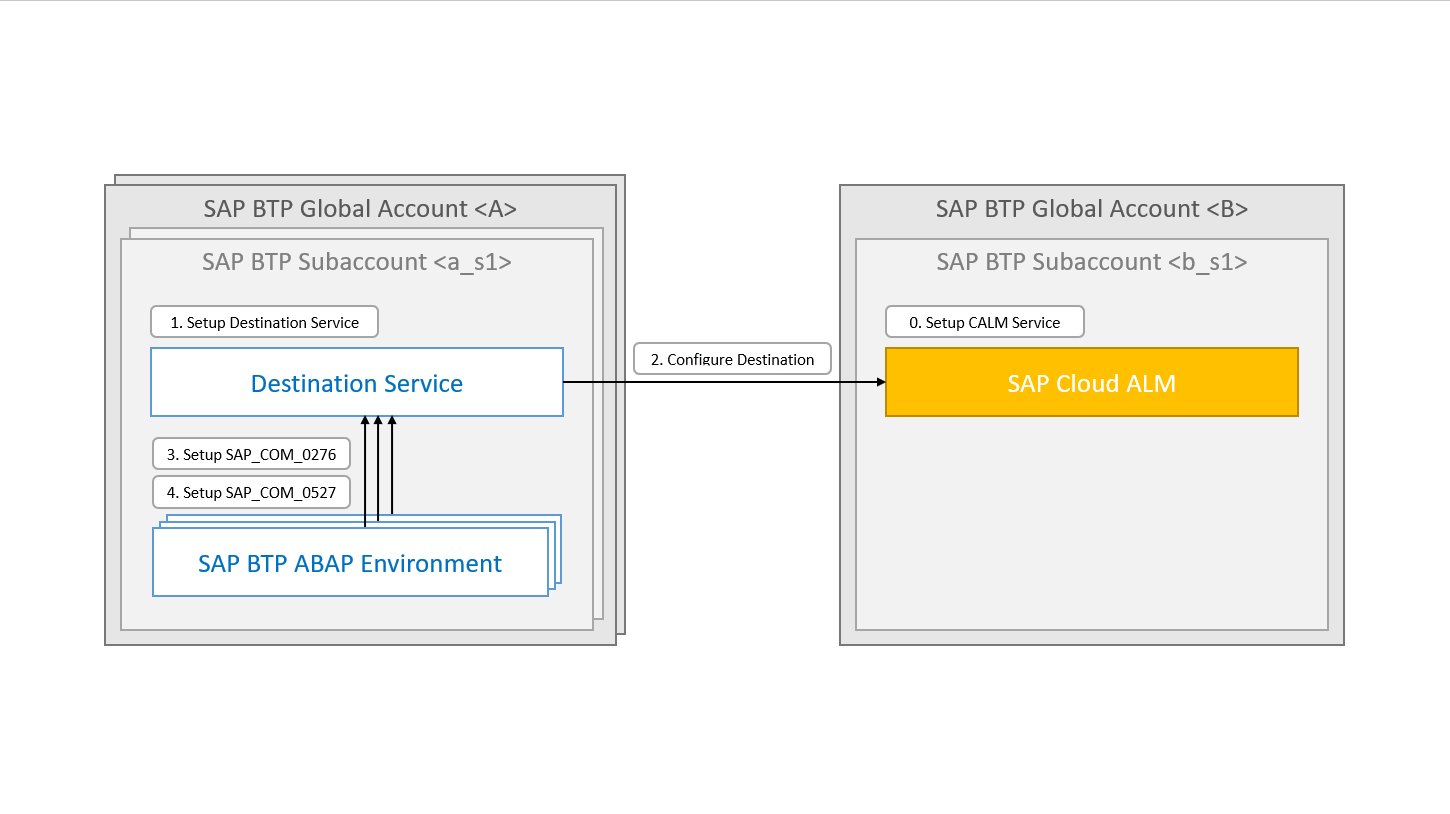
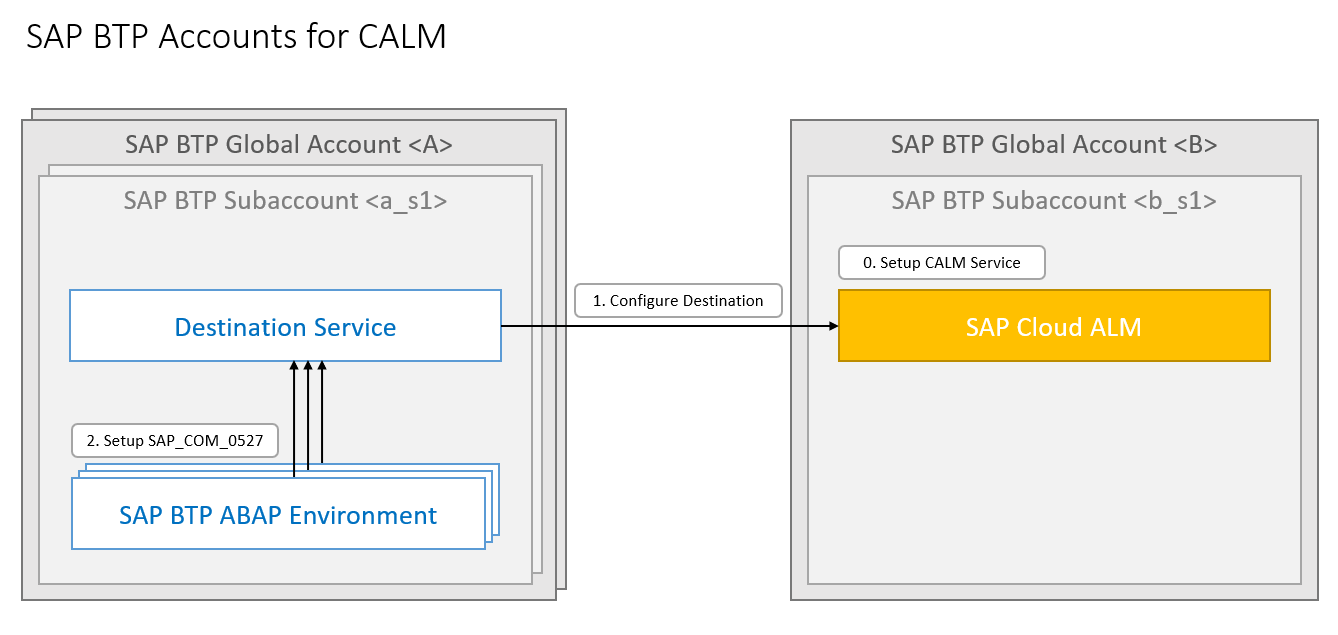
Fixed step numbering + in overview graphic

Changed region(s): [[0.0, 0.1496, 1.0, 0.9575], [0.0, 0.0299, 0.3371, 0.0898]]

diff --git a/tutorials/abap-environment-monitoring-calm-health-monitoring/abap-environment-monitoring-calm-health-monitoring.md b/tutorials/abap-environment-monitoring-calm-health-monitoring/abap-environment-monitoring-calm-health-monitoring.md
@@ -10,12 +10,13 @@ author_profile: https://github.com/julieplummer20
 ---
 
 # Monitor An SAP BTP ABAP Environment Service Using SAP Cloud ALM (CALM)
-<!-- description --> Configure health monitoring and real user monitoring for an SAP BTP ABAP Environment service using SAP Cloud ALM.
+<!-- description -->
+Configure health monitoring and real user monitoring for an SAP BTP ABAP Environment service using SAP Cloud ALM.
 
 ## Prerequisites
 - SAP Cloud ALM instance
 - SAP BTP ABAP Environment instance with the Administrator role
-- Access to the Fiori app **Health Monitoring**
+
 
 ## You will learn
   - How to configure outbound communication from your SAP BTP ABAP Environment  using the communication scenario **`SAP_COM_0276`**
@@ -41,68 +42,25 @@ Throughout this tutorial, objects name include a prefix, such as **`Zxx`** or su
 
 ---
 
-### Set up destination service
-
-In the BTP Cockpit, you need to create a destination service in your BTP subaccount, if you have not already done so.
-
-1. Navigate to your **Space**, choose **Instances**, then choose **Create**.
-
-    <!-- border -->
-    ![step1a-navigate-to-space-etc](step1a-navigate-to-space-etc.png)
-
-2. Enter the following, then choose **Create**.
-
-    - Service: **Destination**
-    - Plan: **Lite**
-    - Instance Name: e.g. **`DST`**
-
-    <!-- border -->
-    ![step1a-create-destinations-service](step1a-create-destinations-service.png)
-
-3.	Create a service key for your SAP Cloud ALM service and download it; you will need it later - that is, the SAP Cloud ALM service mentioned in the prerequisites above.
-
-    <!-- border -->
-    ![step1c-calm-service-already-created](step1c-calm-service-already-created.png)
-
-
-4. Create a new service key for your SAP BTP ABAP Environment and download it; you will need it later.
-
-    <!-- border -->
-    ![step1c-create-service-key-for-steampunk](step1c-create-service-key-for-steampunk.png)
-
 
 ### Configure destination
 
 In the BTP Cockpit, you need to create a destination to SAP Cloud ALM if you have not already done so.
 
-1. Navigate to your **Subaccount** and choose **Destinations > New Destination**.
+1.	Create a service key for your SAP Cloud ALM service and download it; you will need it later - that is, the SAP Cloud ALM service mentioned in the prerequisites above.
+
+    <!-- border -->
+    ![step1c-calm-service-already-created](step1c-calm-service-already-created.png)
+
+2. Navigate to your **Subaccount** and choose **Destinations > New Destination**.
 
     <!-- border -->
     ![step1c-navigate-to-destinations](step1c-navigate-to-destinations.png)
 
-2. Configure the destination to your SAP Cloud ALM service using the credentials in the service key (from step 1.3).
+3. Configure the destination to your SAP Cloud ALM service using the credentials in the service key (from step 1.3).
 
     <!-- border -->
     ![step1b-destination-to-calm](step1b-destination-to-calm.png)
-
-
-### Create Communication Arrangement for Destination Service Integration (SAP_COM_0276)
-
-1.	Logon to your SAP BTP ABAP Environment as Administrator and choose the app **Communication Arrangements**.
-
-    <!-- border -->
-    ![step2a-comm-arr](step2a-comm-arr.png)
-
-2. Choose **New**.
-
-    <!-- border -->
-    ![step2b-comm-arr-new](step2b-comm-arr-new.png)
-
-3. Choose scenario **`SAP_COM_0276`**, paste the service key of your destination service (from step 1.4), then choose **Create**.
-
-    <!-- border -->
-    ![step2c-comm-arr-create](step2c-comm-arr-create.png)
-
 
 
 ### Create Communication Arrangement for Application Monitoring (SAP_COM_0527)
@@ -117,7 +75,7 @@ In the BTP Cockpit, you need to create a destination to SAP Cloud ALM if you hav
     <!-- border -->
     ![step3b-comm-system-new-cutout](step3b-comm-system-new-cutout.png)
 
-3. From the dropdown list, choose the **Name** for your SAP Cloud ALM service, that you configured in step 3.2.
+3. From the dropdown list, choose the **Name** for your SAP Cloud ALM service, that you configured in step 1.3.
 
     <!-- border -->
     ![step3c-comm-system-name](step3c-comm-system-name.png)
